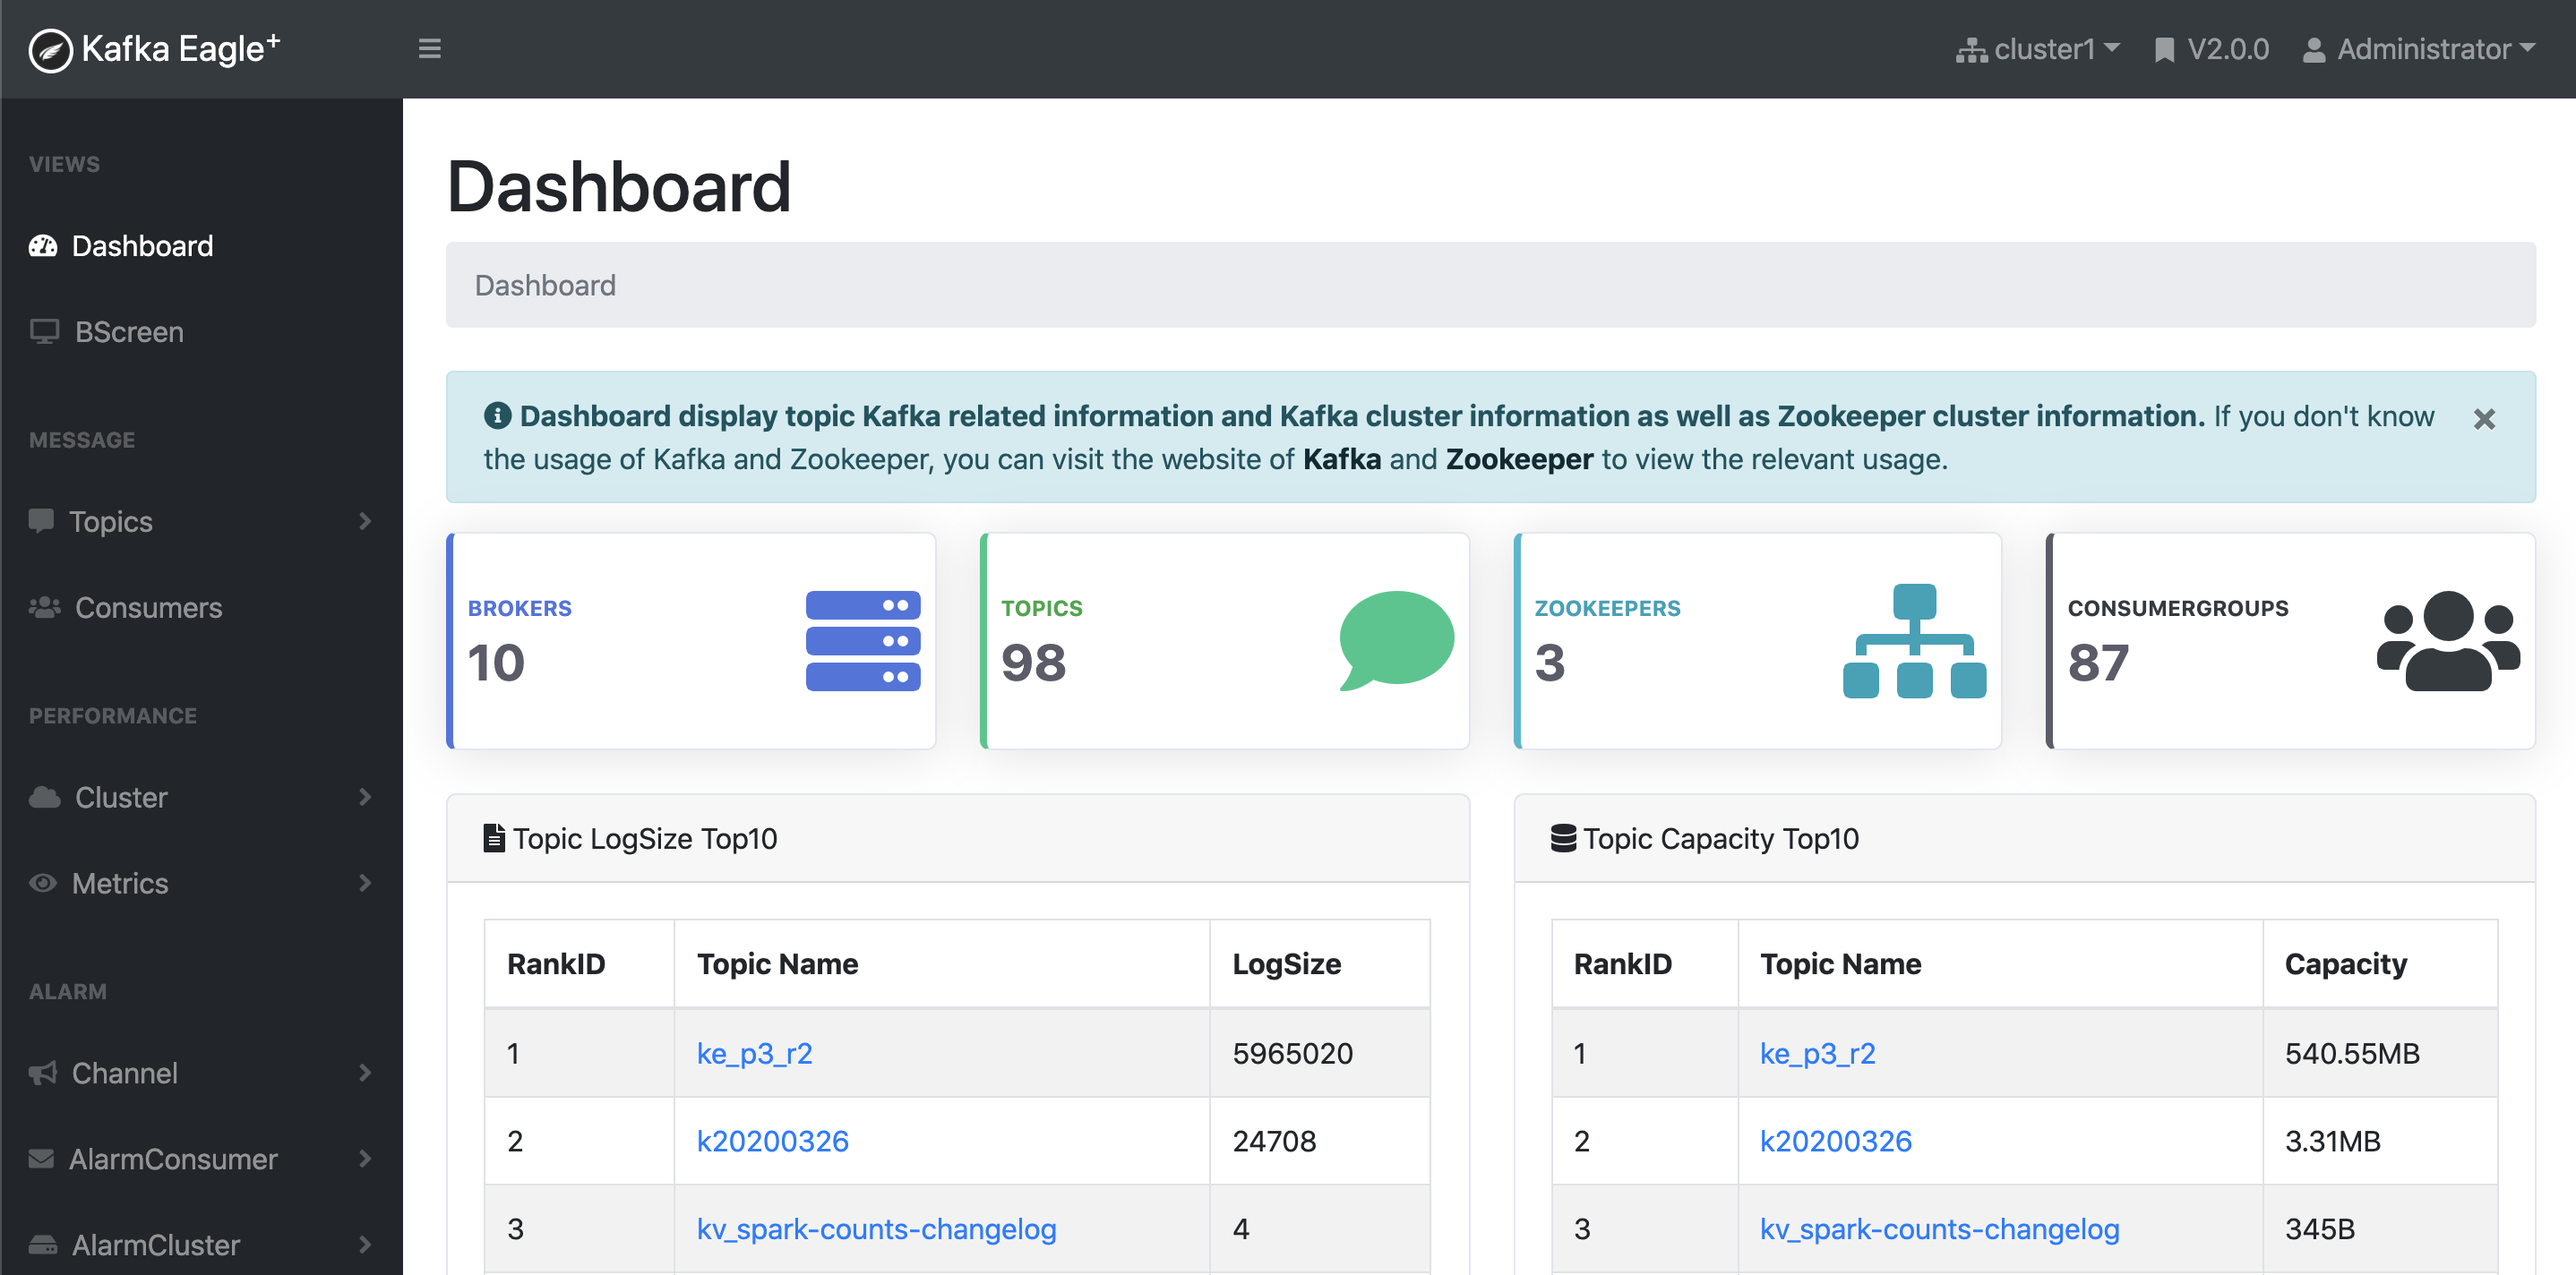
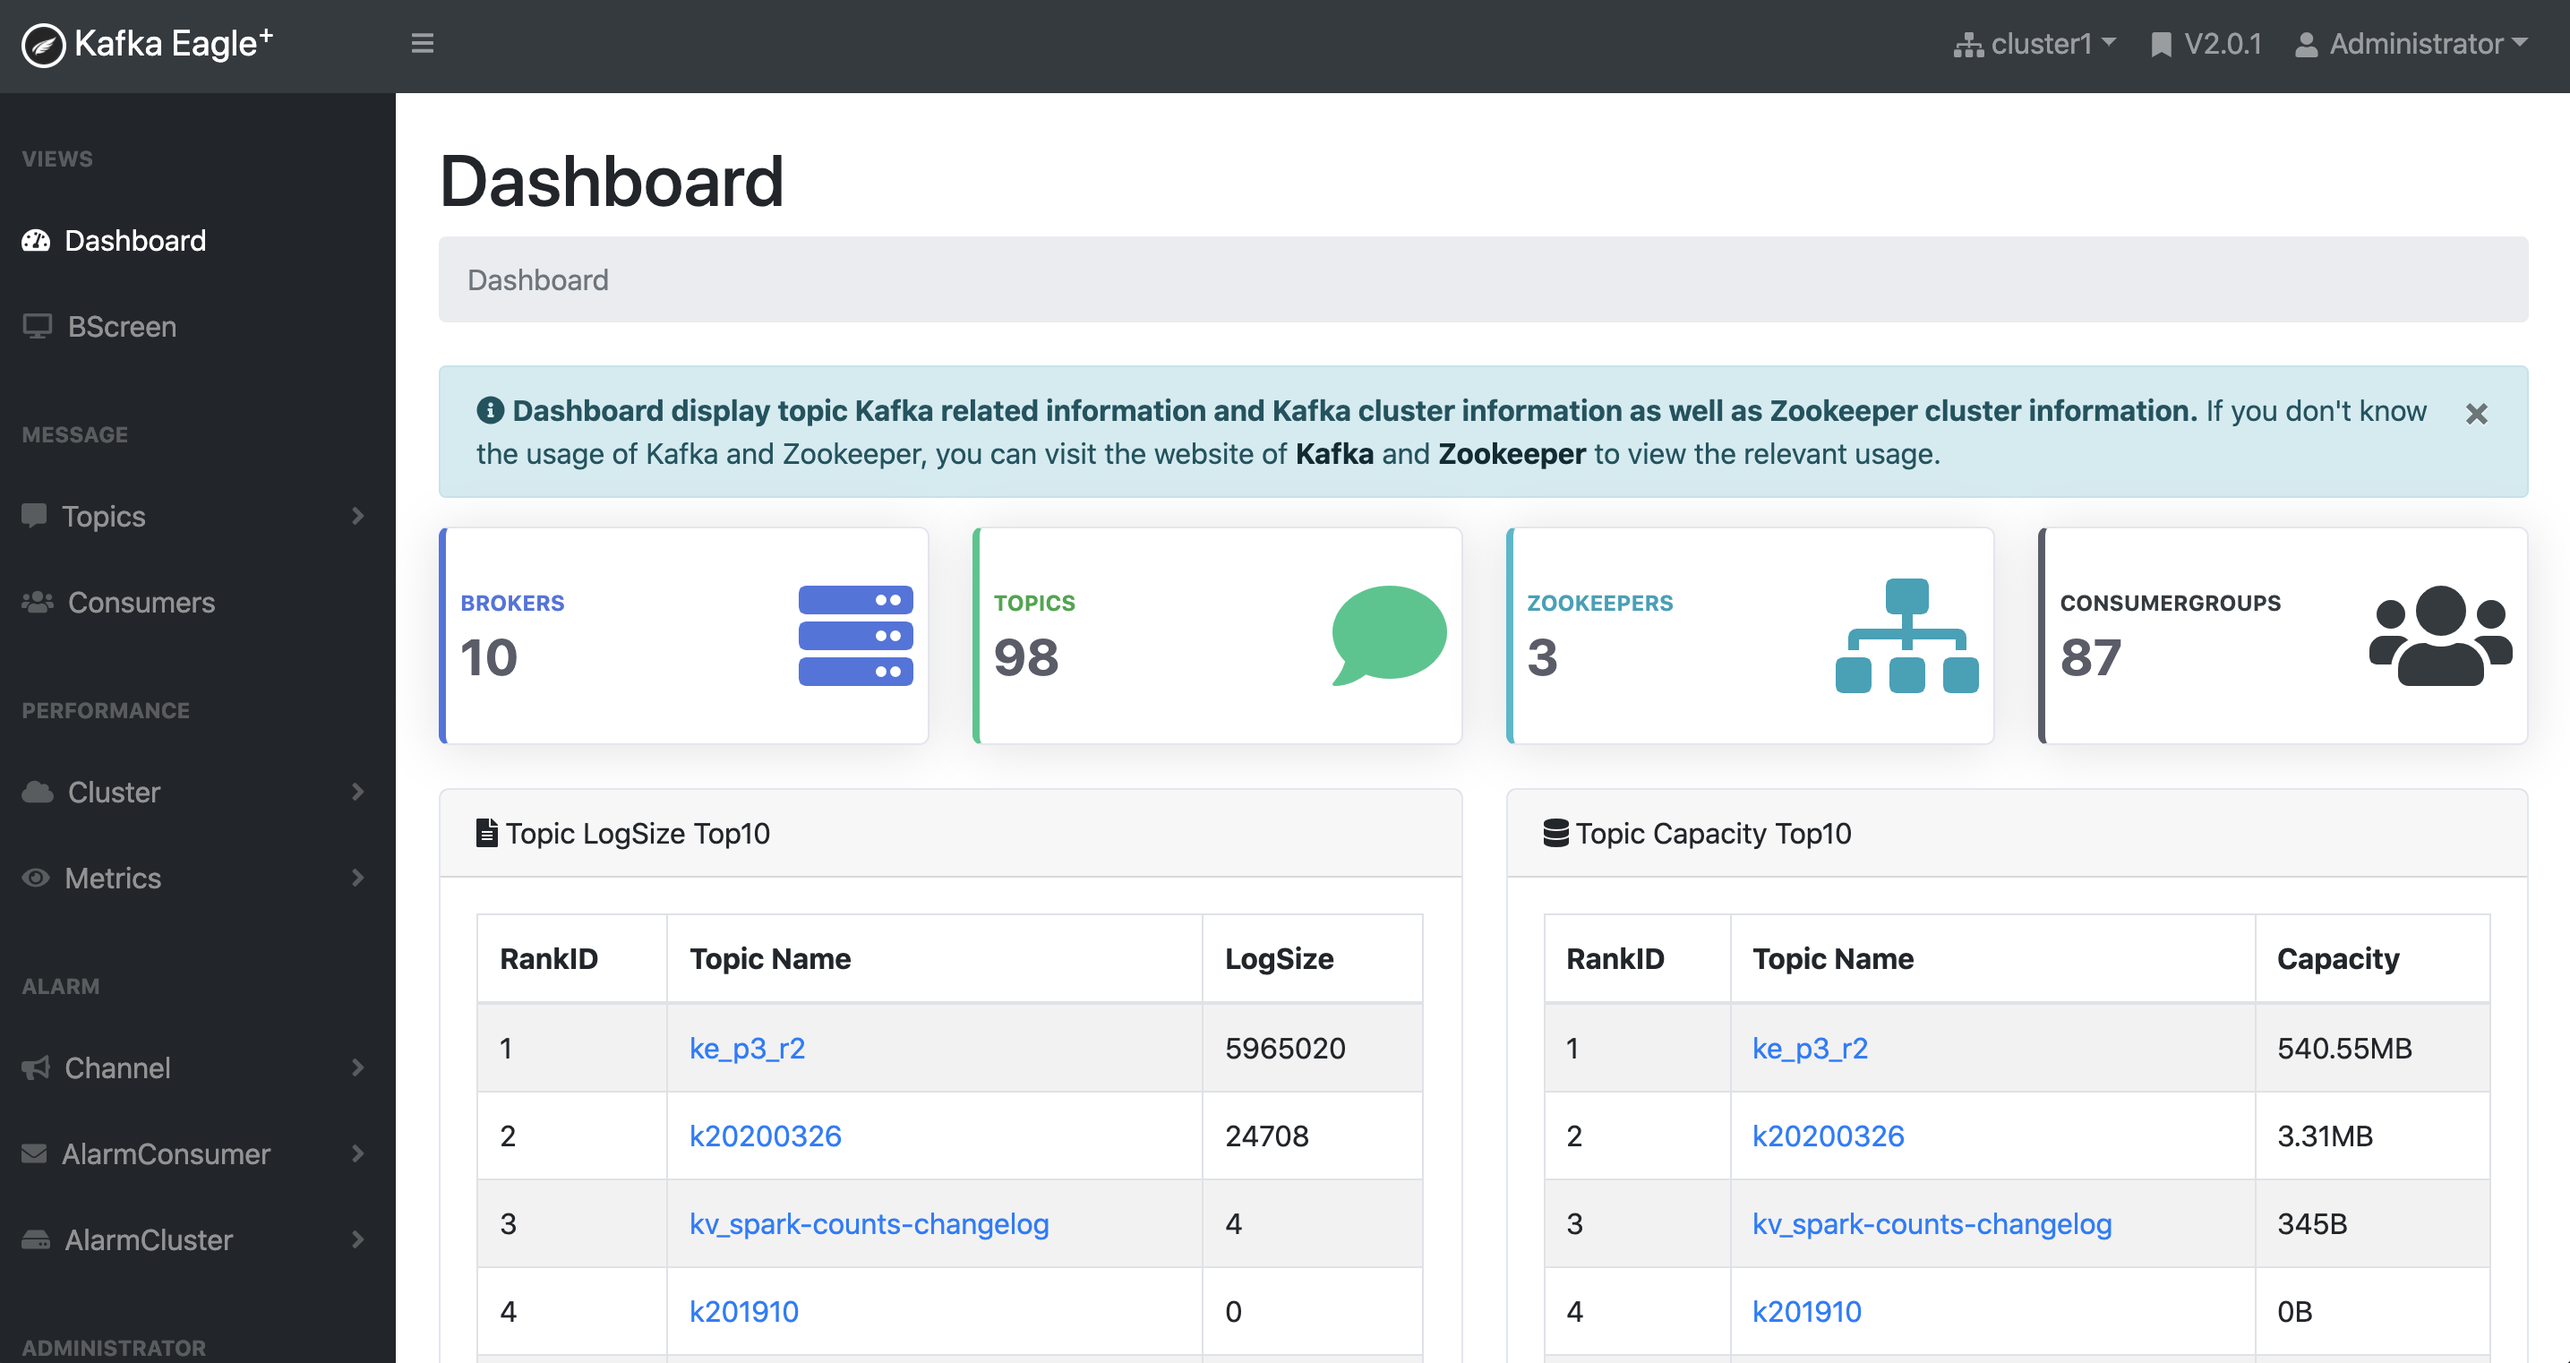
release v2.0.1

diff --git a/articles/docs/changelog/changelog.html b/articles/docs/changelog/changelog.html
@@ -12,11 +12,11 @@
   <link rel="shortcut icon" href="../../../images/favicon.ico">
   <script>
     var _hmt = _hmt || [];
-    (function() {
-        var hm = document.createElement("script");
-        hm.src = "https://hm.baidu.com/hm.js?8f818225b47832c7c649070bf46855a5";
-        var s = document.getElementsByTagName("script")[0];
-        s.parentNode.insertBefore(hm, s);
+    (function () {
+      var hm = document.createElement("script");
+      hm.src = "https://hm.baidu.com/hm.js?8f818225b47832c7c649070bf46855a5";
+      var s = document.getElementsByTagName("script")[0];
+      s.parentNode.insertBefore(hm, s);
     })();
   </script>
 </head>
@@ -35,7 +35,8 @@
           <li><a href="https://www.cnblogs.com/smartloli" target="_blank">Blog</a></li>
           <li><a href="../../article/wechat.html">Articles</a></li>
           <li><a href="../../about/me.html">About</a></li>
-        </ul><span class="nav-docs-right">Need some help? Let us know! <a href="mailto:smartloli.org@gmail.com">smartloli.org@gmail.com</a></span>
+        </ul><span class="nav-docs-right">Need some help? Let us know! <a
+            href="mailto:smartloli.org@gmail.com">smartloli.org@gmail.com</a></span>
       </div>
     </div>
     <section class="content wrap documentationContent">
@@ -96,31 +97,40 @@
         <h1>ChangeLog</h1>
         <div class="subHeader"><i class="fa fa-home"></i> > <a href="" style="text-decoration:none;">ChangeLog</a> >
           ChangeLog</div>
+        <h3>[Release V2.0.1] 2020-08-10</h3>
+        <p>[Release] Add：Release <a href="https://github.com/smartloli/kafka-eagle-bin/archive/v2.0.1.tar.gz"
+            style="text-decoration:none;" target="_blank">Kafka Eagle V2.0.1</a> version,The following changes:</p>
+        <ol>
+          <li>Optimize KSQL Query Limit.</li>
+          <li>Fixed Issues [<a href="https://github.com/smartloli/kafka-eagle/issues/388"
+            style="text-decoration:none;" target="_blank">#388</a>].</li>
+          <li>WebConsole Bug Fixed.</li>
+        </ol>
         <h3>[Release V2.0.0] 2020-07-03</h3>
-          <p>[Release] Add：Release <a href="https://github.com/smartloli/kafka-eagle-bin/archive/v2.0.0.tar.gz"
-              style="text-decoration:none;" target="_blank">Kafka Eagle V2.0.0</a> version,The following changes:</p>
-          <ol>
-            <li>Optimize KSQL Feature.</li>
-            <li>Fixed Zookeeper ACL.</li>
-            <li>Add New WebConsole By Kafka Eagle V2.0.0.</li>
-        </ol>  
+        <p>[Release] Add：Release <a href="https://github.com/smartloli/kafka-eagle-bin/archive/v2.0.0.tar.gz"
+            style="text-decoration:none;" target="_blank">Kafka Eagle V2.0.0</a> version,The following changes:</p>
+        <ol>
+          <li>Optimize KSQL Feature.</li>
+          <li>Fixed Zookeeper ACL.</li>
+          <li>Add New WebConsole By Kafka Eagle V2.0.0.</li>
+        </ol>
         <h3>[Release V1.4.8] 2020-06-02</h3>
-          <p>[Release] Add：Release <a href="https://github.com/smartloli/kafka-eagle-bin/archive/v1.4.8.tar.gz"
-              style="text-decoration:none;" target="_blank">Kafka Eagle V1.4.8</a> version,The following changes:</p>
-          <ol>
-            <li>Fixed Producer Threads.</li>
-            <li>Add Kafka Brokers CPU Metrics.</li>
-            <li>Add Kafka Balance(topic reassignment).</li>
-        </ol> 
+        <p>[Release] Add：Release <a href="https://github.com/smartloli/kafka-eagle-bin/archive/v1.4.8.tar.gz"
+            style="text-decoration:none;" target="_blank">Kafka Eagle V1.4.8</a> version,The following changes:</p>
+        <ol>
+          <li>Fixed Producer Threads.</li>
+          <li>Add Kafka Brokers CPU Metrics.</li>
+          <li>Add Kafka Balance(topic reassignment).</li>
+        </ol>
         <h3>[Release V1.4.7] 2020-05-13</h3>
-          <p>[Release] Add：Release <a href="https://github.com/smartloli/kafka-eagle-bin/archive/v1.4.7.tar.gz"
-              style="text-decoration:none;" target="_blank">Kafka Eagle V1.4.7</a> version,The following changes:</p>
-          <ol>
-            <li>Add SSL.</li>
-            <li>Add Producers Feature.</li>
-            <li>Fix TopicRank Clean [<a href="https://github.com/smartloli/kafka-eagle/issues/333"
-                style="text-decoration:none;" target="_blank">#333</a>].</li>
-        </ol>  
+        <p>[Release] Add：Release <a href="https://github.com/smartloli/kafka-eagle-bin/archive/v1.4.7.tar.gz"
+            style="text-decoration:none;" target="_blank">Kafka Eagle V1.4.7</a> version,The following changes:</p>
+        <ol>
+          <li>Add SSL.</li>
+          <li>Add Producers Feature.</li>
+          <li>Fix TopicRank Clean [<a href="https://github.com/smartloli/kafka-eagle/issues/333"
+              style="text-decoration:none;" target="_blank">#333</a>].</li>
+        </ol>
         <h3>[Release V1.4.6] 2020-04-12</h3>
         <p>[Release] Add：Release <a href="https://github.com/smartloli/kafka-eagle-bin/archive/v1.4.6.tar.gz"
             style="text-decoration:none;" target="_blank">Kafka Eagle V1.4.6</a> version,The following changes:</p>

diff --git a/index.html b/index.html
@@ -37,7 +37,7 @@
           <div class="wrap">
             <div class="text"><strong>Kafka-<span class="white-text">Eagle</span></strong></div>
             <div class="minitext">A Easy and High-Performance Monitoring System</div>
-            <div class="buttons-unit"><a href="articles/docs/documentation.html" target="_blank" class="button">Installation guidelines</a><a href="http://download.kafka-eagle.org/" target="_blank" class="button">Download (v2.0.0)</a></div>
+            <div class="buttons-unit"><a href="articles/docs/documentation.html" target="_blank" class="button">Installation guidelines</a><a href="http://download.kafka-eagle.org/" target="_blank" class="button">Download (v2.0.1)</a></div>
             <div class="admin-screenshots">
               <div class="admin-screenshot">
                 <div class="browser-mockup"><a href="#" target="_blank" class="demo-link"><img src="images/Dashboard@2x.png"><span class="demo-link-label">Kafka Eagle</span></a></div>
